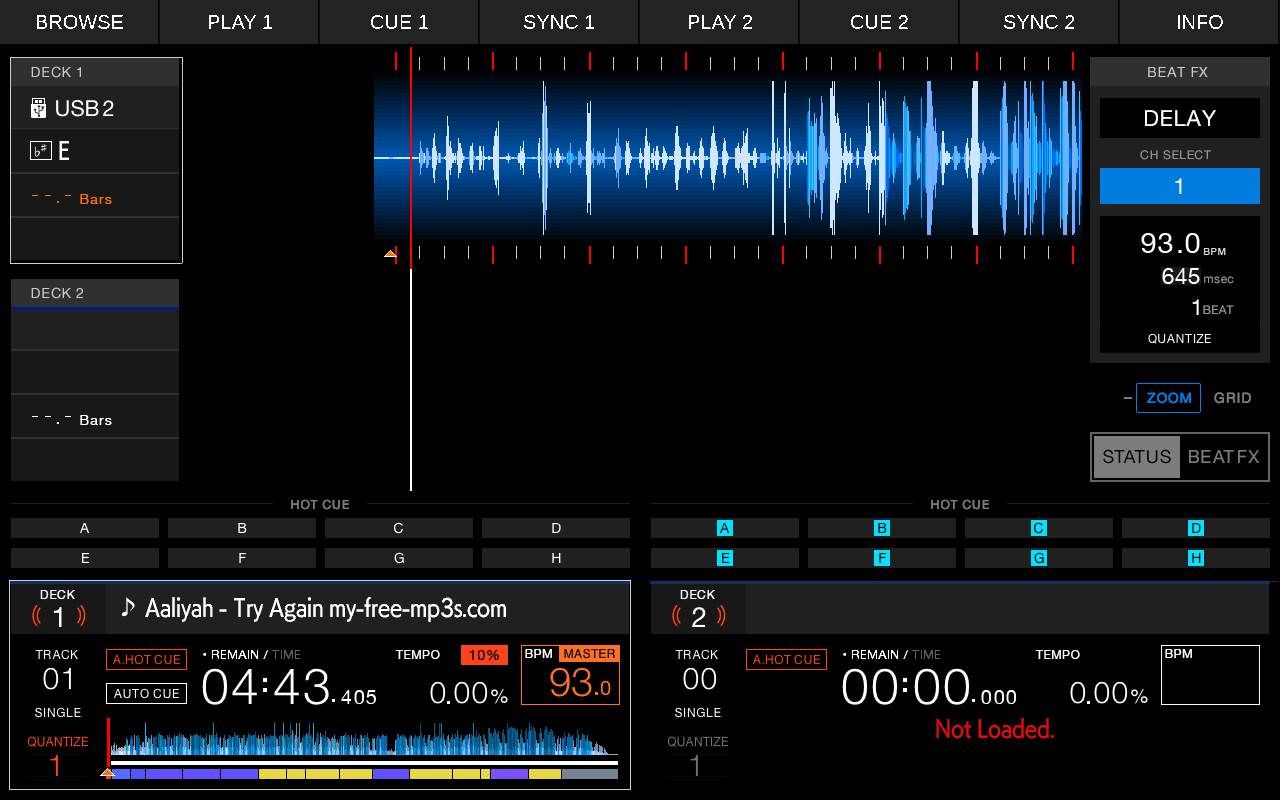
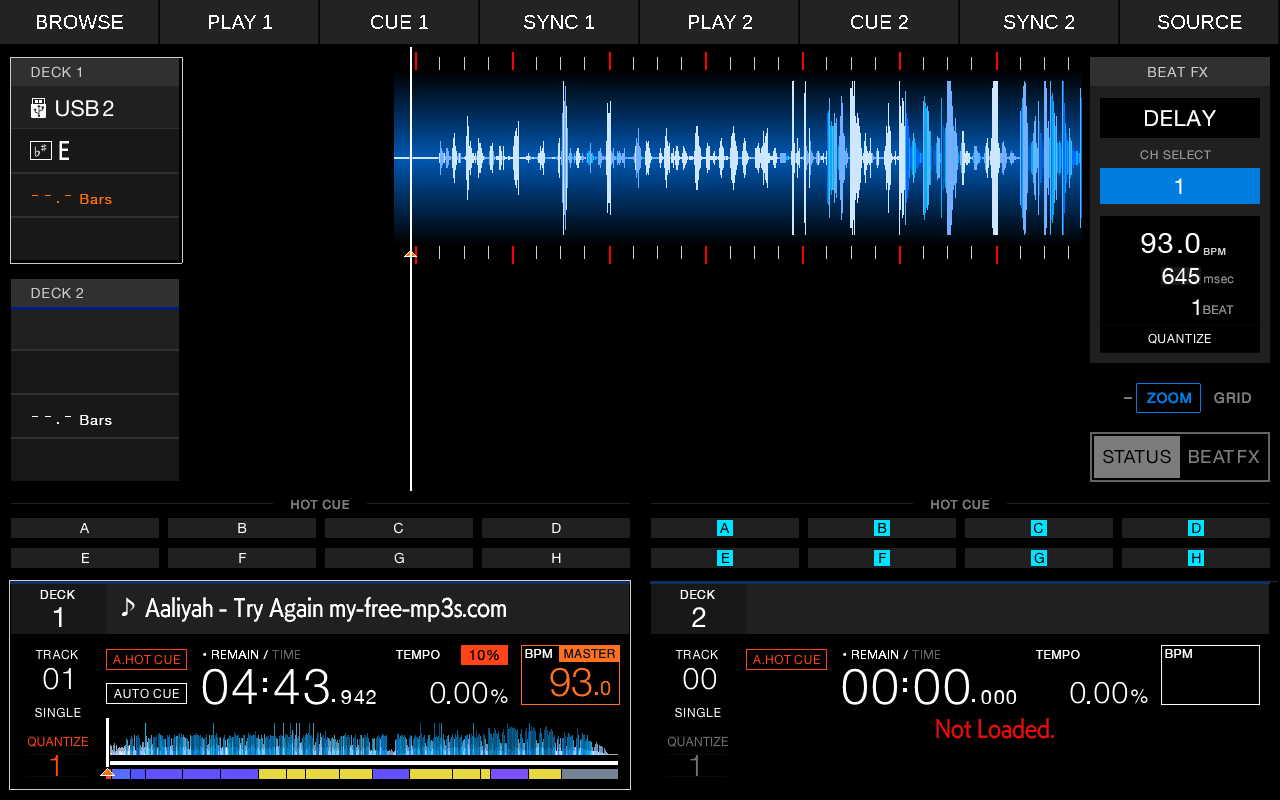
Enable native touchscreen source selection before loading tracks

diff --git a/native-ui-glyphs.h b/native-ui-glyphs.h
@@ -1,4 +1,4 @@
-/* Monochrome text spans generated with Liberation Sans, 20px. */
+/* Generated by generate-native-labels.py, Liberation Sans20px. */
 static const unsigned short text_spans[][3]={
 {37,15,8},
 {50,15,9},
@@ -697,92 +697,128 @@ static const unsigned short text_spans[][3]={
 {1040,28,3},
 {1049,28,5},
 {1065,28,9},
-{1178,15,2},
-{1183,15,3},
-{1193,15,1},
-{1198,15,9},
-{1213,15,6},
-{1178,16,2},
-{1183,16,3},
-{1193,16,1},
-{1198,16,9},
-{1211,16,10},
-{1178,17,2},
-{1183,17,4},
-{1193,17,1},
-{1198,17,2},
-{1210,17,3},
-{1219,17,2},
-{1178,18,2},
-{1183,18,2},
-{1186,18,2},
-{1193,18,1},
-{1198,18,2},
-{1210,18,2},
-{1220,18,2},
-{1178,19,2},
+{1161,15,6},
+{1175,15,6},
+{1187,15,2},
+{1197,15,2},
+{1202,15,9},
+{1220,15,5},
+{1231,15,10},
+{1159,16,4},
+{1164,16,4},
+{1174,16,9},
+{1187,16,2},
+{1197,16,2},
+{1202,16,10},
+{1218,16,9},
+{1231,16,10},
+{1159,17,2},
+{1167,17,2},
+{1173,17,2},
+{1181,17,3},
+{1187,17,2},
+{1197,17,2},
+{1202,17,2},
+{1211,17,2},
+{1217,17,3},
+{1225,17,3},
+{1231,17,2},
+{1159,18,1},
+{1172,18,2},
+{1182,18,2},
+{1187,18,2},
+{1197,18,2},
+{1202,18,2},
+{1211,18,2},
+{1216,18,3},
+{1226,18,2},
+{1231,18,2},
+{1159,19,2},
+{1172,19,2},
 {1183,19,2},
-{1186,19,2},
-{1193,19,1},
-{1198,19,2},
-{1210,19,1},
-{1221,19,1},
-{1178,20,2},
+{1187,19,2},
+{1197,19,2},
+{1202,19,2},
+{1211,19,2},
+{1216,19,2},
+{1231,19,2},
+{1159,20,3},
+{1171,20,2},
 {1183,20,2},
 {1187,20,2},
-{1193,20,1},
-{1198,20,2},
-{1209,20,2},
-{1221,20,2},
-{1178,21,2},
+{1197,20,2},
+{1202,20,2},
+{1211,20,2},
+{1216,20,2},
+{1231,20,2},
+{1160,21,6},
+{1171,21,2},
 {1183,21,2},
 {1187,21,2},
-{1193,21,1},
-{1198,21,2},
-{1209,21,2},
-{1221,21,2},
-{1178,22,2},
+{1197,21,2},
+{1202,21,10},
+{1216,21,2},
+{1231,21,10},
+{1163,22,5},
+{1171,22,2},
 {1183,22,2},
-{1188,22,2},
-{1193,22,1},
-{1198,22,9},
-{1209,22,2},
-{1221,22,2},
-{1178,23,2},
+{1187,22,2},
+{1197,22,2},
+{1202,22,9},
+{1216,22,2},
+{1231,22,9},
+{1167,23,2},
+{1171,23,2},
 {1183,23,2},
-{1189,23,2},
-{1193,23,1},
-{1198,23,9},
-{1209,23,2},
-{1221,23,2},
-{1178,24,2},
+{1187,23,2},
+{1197,23,2},
+{1202,23,2},
+{1208,23,2},
+{1216,23,2},
+{1231,23,2},
+{1167,24,2},
+{1172,24,2},
 {1183,24,2},
-{1189,24,2},
-{1193,24,1},
-{1198,24,2},
-{1210,24,2},
-{1220,24,2},
-{1178,25,2},
-{1183,25,2},
-{1190,25,2},
-{1193,25,1},
-{1198,25,2},
+{1188,24,1},
+{1197,24,2},
+{1202,24,2},
+{1209,24,2},
+{1216,24,2},
+{1231,24,2},
+{1158,25,2},
+{1167,25,2},
+{1172,25,2},
+{1182,25,2},
+{1188,25,2},
+{1197,25,1},
+{1202,25,2},
 {1210,25,2},
-{1220,25,2},
-{1178,26,2},
-{1183,26,2},
-{1191,26,3},
-{1198,26,2},
-{1211,26,2},
-{1219,26,2},
-{1178,27,2},
-{1183,27,2},
-{1191,27,3},
-{1198,27,2},
-{1211,27,9},
-{1178,28,2},
-{1183,28,2},
-{1192,28,2},
-{1198,28,2},
-{1213,28,6},
+{1217,25,2},
+{1226,25,2},
+{1231,25,2},
+{1158,26,3},
+{1167,26,2},
+{1173,26,2},
+{1181,26,3},
+{1188,26,2},
+{1196,26,2},
+{1202,26,2},
+{1210,26,2},
+{1217,26,3},
+{1225,26,3},
+{1231,26,2},
+{1159,27,9},
+{1174,27,9},
+{1189,27,8},
+{1202,27,2},
+{1211,27,2},
+{1218,27,9},
+{1231,27,10},
+{1161,28,6},
+{1175,28,6},
+{1190,28,6},
+{1202,28,2},
+{1211,28,3},
+{1220,28,5},
+{1231,28,11},
 };

diff --git a/native-ui.c b/native-ui.c
@@ -4,19 +4,14 @@
 #include <sys/mman.h>
 #include <unistd.h>
 #include "native-ui-glyphs.h"
+#include "native-screen.h"
 extern char *program_invocation_short_name;
 volatile int rx3_native_ui_ready=0,rx3_native_ui_pressed=-1;
 static void *window;
-static int disabled,shown=-1,painted=-2;
+static int disabled,shown=-1;
 static int (*original_draw)(void*);
-static int visible(void){
- void *active=*(void *volatile *)(0x024942bc+0x20);
- return active&&*(volatile int16_t*)((char*)active+6)==0&&*(volatile uint32_t*)(0x02498c88+0xbc);
-}
-static void fill(int x,int y,int w,int h){((int(*)(void*,int,int,uint32_t))0x1a245c)(window,x,y,(uint32_t)w|((uint32_t)h<<16));}
-static void color(uint32_t c){((int(*)(void*,int,uint32_t))0x1a0680)(window,1,((c>>19)&31)|(((c>>10)&63)<<8)|(((c>>3)&31)<<16));}
 static int draw(void *arg){
- int result=original_draw(arg),show=visible();
+ int result=original_draw(arg),show=main_panel_visible();
  if(disabled)return result;
  if(!window&&show){
   uint32_t desc[13]={0};desc[2]=1280|(44u<<16);desc[3]=9;desc[5]=1; /* Smaller z draws last in DS_HW_UpdateScreen. */
@@ -25,9 +20,11 @@ static int draw(void *arg){
   write(2,"native transport window created\n",32);
  }
  if(!window)return result;
- if(shown!=show){((int(*)(void*,int,unsigned))0x1a061c)(window,show?1:2,8);((int(*)(void*,unsigned))0x1a0a28)(window,show?255:0);shown=show;painted=-2;rx3_native_ui_ready=show;}
+ if(shown!=show){((int(*)(void*,int,unsigned))0x1a061c)(window,show?1:2,8);((int(*)(void*,unsigned))0x1a0a28)(window,show?255:0);shown=show;rx3_native_ui_ready=show;}
  int pressed=rx3_native_ui_pressed;
- if(show&&painted!=pressed){
+ /* Supply the complete small surface each GUI pass, including labels
+  * and pressed state, under one surface lock. */
+ if(show){
   void *pixels=0;int pitch=0;
   int rc=((int(*)(void*,void**,int*))0x1a1c48)(window,&pixels,&pitch);
   if(rc||!pixels||pitch<1280*2){rx3_native_ui_ready=0;disabled=1;return result;}
@@ -44,7 +41,6 @@ static int draw(void *arg){
   }
   ((int(*)(void*))0x1a1cb0)(window);
   ((int(*)(void*,int,int,int,int,int))0x1a0948)(window,0,0,1280,44,0x4000);
-  painted=pressed;
  }
  return result;
 }

diff --git a/native-touch.c b/native-touch.c
@@ -2,6 +2,7 @@
  * Runs inside rbp-pi; all other native touch processing is preserved.
  */
 #include <stdint.h>
+#include "native-screen.h"
 #include <string.h>
 #include <sys/mman.h>
 #include <unistd.h>
@@ -20,13 +21,10 @@ static void native_touch(void *handler,const struct touch *t,void *mode){
   if(!t->down){pad_key(handler,held_key,2,held_channel);held_key=0;rx3_native_ui_pressed=-1;}
   return;
  }
- /* The native waveform window is destroyed when switching to the browser.
-  * Also require the main active screen, so overlays cannot trigger pads. */
- void *active=*(void *volatile *)(0x024942bc+0x20);
- int main_visible=*(volatile uint32_t*)(0x02498c88+0xbc)!=0&&active&&*(volatile int16_t*)((char*)active+6)==0;
+ int main_visible=main_panel_visible();
  if(t->down&&!*((uint8_t*)handler+4)&&main_visible){
   if(rx3_native_ui_ready&&t->y>=0&&t->y<44&&t->x>=0&&t->x<1280){
-   static const int keys[8]={0x202,0x4101,0x4102,0x4112,0x4101,0x4102,0x4112,0x20b};
+   static const int keys[8]={0x202,0x4101,0x4102,0x4112,0x4101,0x4102,0x4112,0x201};
    static const int channels[8]={0,1,1,1,2,2,2,0};
    int i=t->x/160;held_key=keys[i];held_channel=channels[i];rx3_native_ui_pressed=i;
    pad_key(handler,held_key,0,held_channel);return;

diff --git a/generate-native-labels.py b/generate-native-labels.py
@@ -1,0 +1,18 @@
+#!/usr/bin/env python3
+"""Regenerate checked-in monochrome glyph spans; requires ImageMagick/fonts."""
+from pathlib import Path
+import subprocess
+labels=['BROWSE','PLAY 1','CUE 1','SYNC 1','PLAY 2','CUE 2','SYNC 2','SOURCE']
+spans=[]
+for index,label in enumerate(labels):
+ pixels=subprocess.check_output(['magick','-size','160x44','xc:black','-font','Liberation-Sans','-pointsize','20','-fill','white','-gravity','center','-annotate','0',label,'-depth','8','gray:-'])
+ if len(pixels)!=160*44:raise ValueError('Unexpected glyph raster geometry')
+ for y in range(44):
+  x=0
+  while x<160:
+   if pixels[y*160+x]<128:x+=1;continue
+   start=x
+   while x<160 and pixels[y*160+x]>=128:x+=1
+   spans.append((index*160+start,y,x-start))
+p=Path(__file__).with_name('native-ui-glyphs.h')
+p.write_text('/* Generated by generate-native-labels.py, Liberation Sans20px. */\nstatic const unsigned short text_spans[][3]={\n'+''.join('{%d,%d,%d},\n'%s for s in spans)+'};\n')

diff --git a/control-shim.c b/control-shim.c
@@ -6,17 +6,7 @@
 extern char *program_invocation_short_name;
 extern int pthread_create(unsigned long*,const void*,void *(*)(void*),void*);
 struct command {int key,operation,channel,value;float analog;int extra;};
-/* Main deck-information panel (native window key136) exists before loading
- * a track too. Its visibility distinguishes the player from Browse. */
-static int main_panel_visible(void){
- void *active=*(void *volatile *)(0x024942bc+0x20);
- if(!active||*(volatile int16_t*)((char*)active+6)!=0)return 0;
- uintptr_t p=*(volatile uint32_t*)0x0245b880;
- for(int i=0;p&&i<256;i++,p=*(volatile uint32_t*)(p+0x84)){
-  if(*(volatile uint32_t*)(p+0xc)==136)return (*(volatile uint32_t*)(p+4)&8)!=0;
- }
- return 0;
-}
+#include "native-screen.h"
 static void *control_thread(void *unused){
  sleep(3);
  int fd=open("/dev/rx3-control",O_RDWR);

diff --git a/native-screen.h b/native-screen.h
@@ -1,0 +1,15 @@
+#ifndef RX3_NATIVE_SCREEN_H
+#define RX3_NATIVE_SCREEN_H
+#include <stdint.h>
+/* Main deck-information panel (native window key136) exists before loading
+ * a track too. Its visibility distinguishes the player from Browse. */
+static inline int main_panel_visible(void){
+ void *active=*(void *volatile *)(0x024942bc+0x20);
+ if(!active||*(volatile int16_t*)((char*)active+6)!=0)return 0;
+ uintptr_t p=*(volatile uint32_t*)0x0245b880;
+ for(int i=0;p&&i<256;i++,p=*(volatile uint32_t*)(p+0x84)){
+  if(*(volatile uint32_t*)(p+0xc)==136)return (*(volatile uint32_t*)(p+4)&8)!=0;
+ }
+ return 0;
+}
+#endif

diff --git a/VALIDATION.md b/VALIDATION.md
@@ -19,3 +19,11 @@ Added a hook after `DS_HW_UpdateScreen` layer0 returns. It copies into one of tw
 Live fullscreen presentation measured60FPS and about10.5ms draw time, with180accepted snapshots per180displaycycles in sampled intervals. Native screenshot captured from sequence6408 shows two loaded waveforms and the transport strip. The user still needs to assess flicker visually with the backlight on later; this is not a claim of fully smooth waveform motion.
 
 Fixed stop-rx3.sh to match fullscreen/coherent helper arguments. Prior fullscreen helpers were not stopped by the old exact-argument matcher. Subsequent controlled restart replaced both helpers successfully; screen remainsdark.
+
+## Touchscreen startup flow
+
+Shared `native-screen.h` detects the main deck panel before waveform allocation. The native strip now appears on an empty player and offers Source in its last slot. Regenerate its checked-in glyphs with `python3 generate-native-labels.py` (ImageMagick and Liberation Sans required).
+
+From freshly restarted player with no tracks loaded, replayed only touchscreen coordinates through the physical input bridge: Source(1800,30), USB2row(600,350), rowarrow(1040,350), Tracktab(75,345), Load1(1620,187), Play1(360,30), Cue1(600,30). USB2 displayed13646songs; Aaliyah/Try Again loaded, playback advanced to04:33.773remaining, and Cue returned to04:43.942. No direct load/play/control FIFO commands were used for this flow. These are software replay checks, not physical finger testing.
+
+The small native transport surface is fully repainted under one lock on each GUI pass. After Cue,118completed-frame samples all retained2435white text pixels; complete-frame sequence10244 screenshot confirms labels and paused cue position. Some raw framebuffer screenshots caught missing labels during redraw; they are not evidence of displayed label loss. Use completed-frame capture for future visual checks. Backlight stayed0; presentation remained60FPS.

diff --git a/README.md b/README.md
@@ -7,7 +7,7 @@ Experimental compatibility work running the ARM32 RX3 v1.19 player on Raspberry 
 - Analysed USB library browsing, native loading and two stacked waveforms.
 - Playback confirmed audible by the owner through FLX6 cue/headphones. Master channels1/2 and headphones3/4 routed through ALSA.
 - Fullscreen landscape1920x1200 display from native1280x800; DRM page-flip presenter measures about60FPS. A sequence-checked pair of completed-frame buffers now separates composition from presentation.
-- Native browser touch and A–H hot-cue touch adapters. Native transport strip uses its own locked RGB565 window surface; repeated presses keep labels visible in screenshot tests.
+- Native browser touch and A–H hot-cue touch adapters. Transport/Source controls are available before loading the first track. Native transport strip uses its own locked RGB565 window surface; repeated presses keep labels visible in screenshot tests.
 - 87 FLX6 MIDI bindings read from the user's installed BiteDJ XML. Jogs, tempo, mixer, play/cue/load, browse encoder and navigation adapters.
 - BiteDJ files remain unchanged. Stop this runtime before returning to BiteDJ.
 
